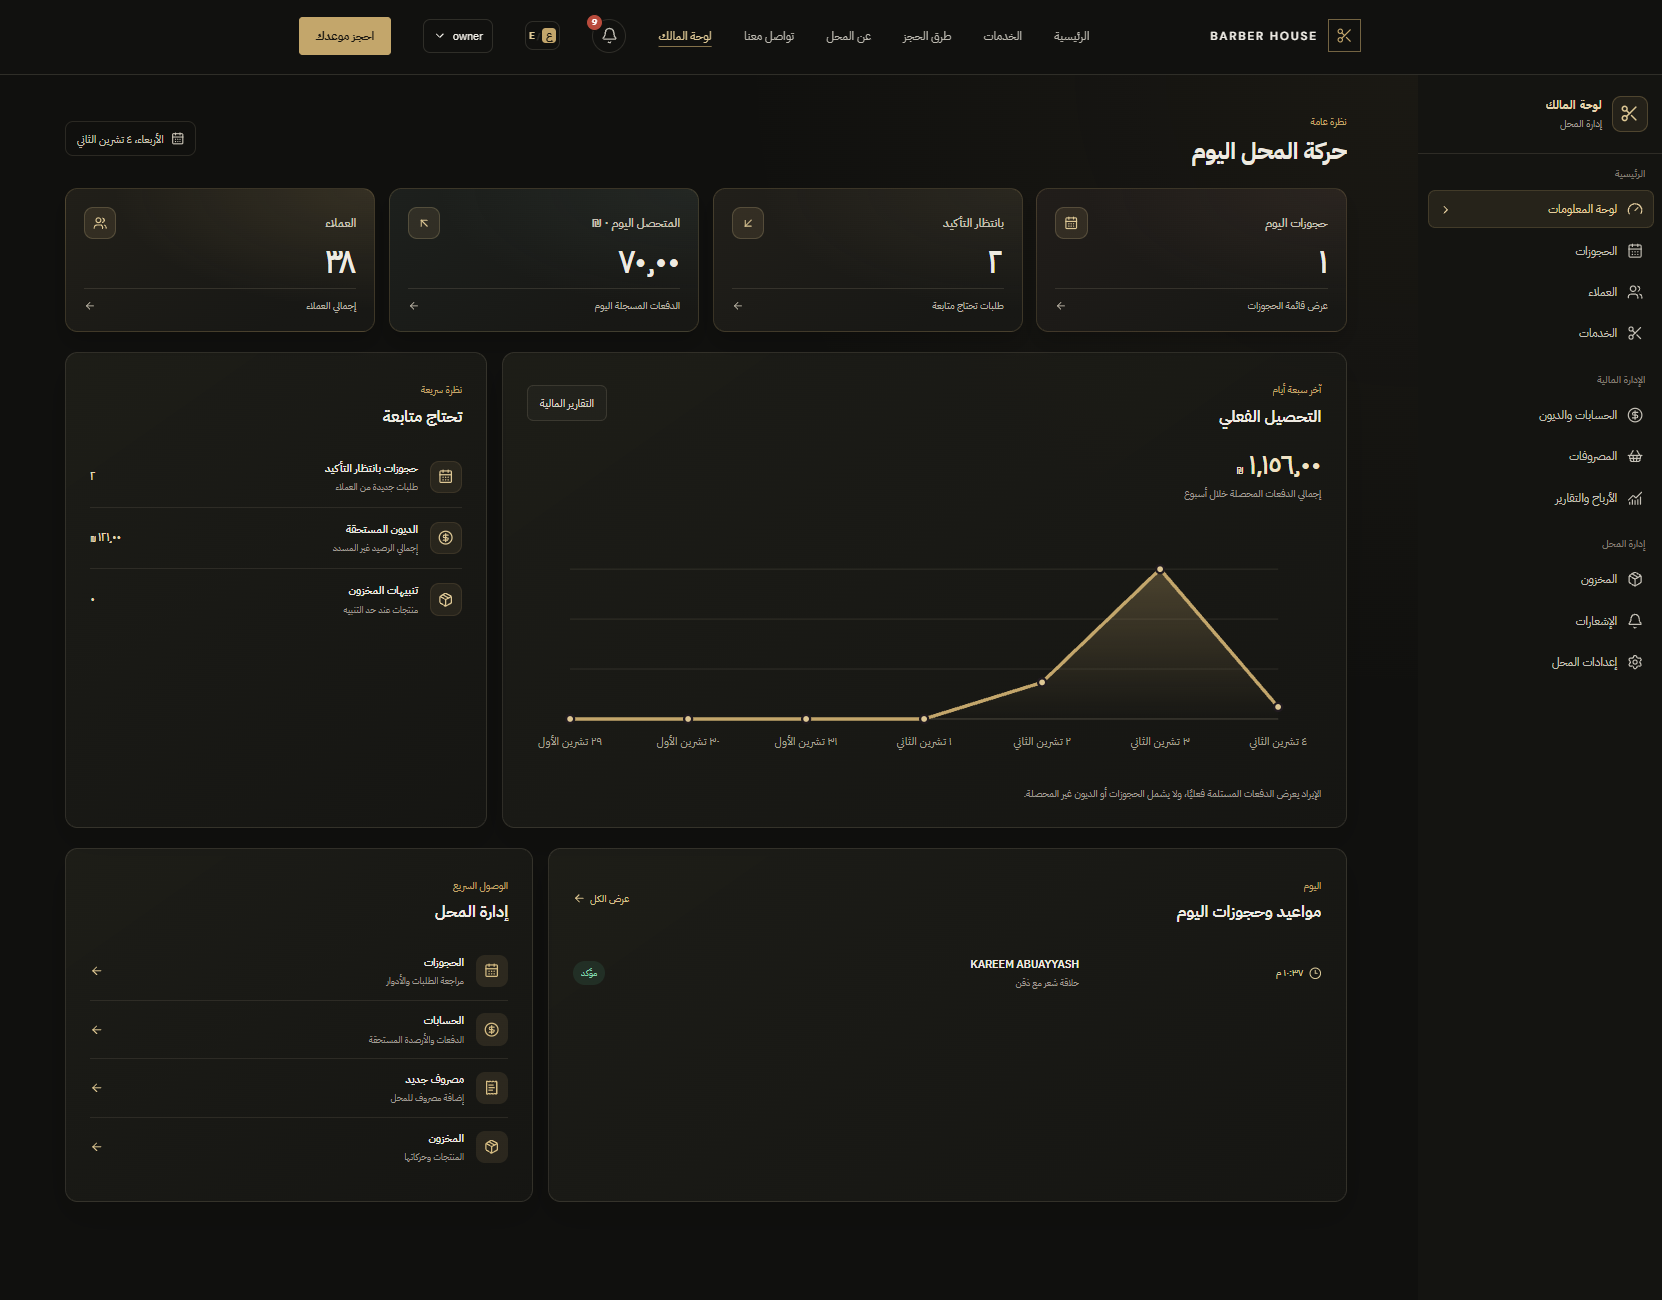
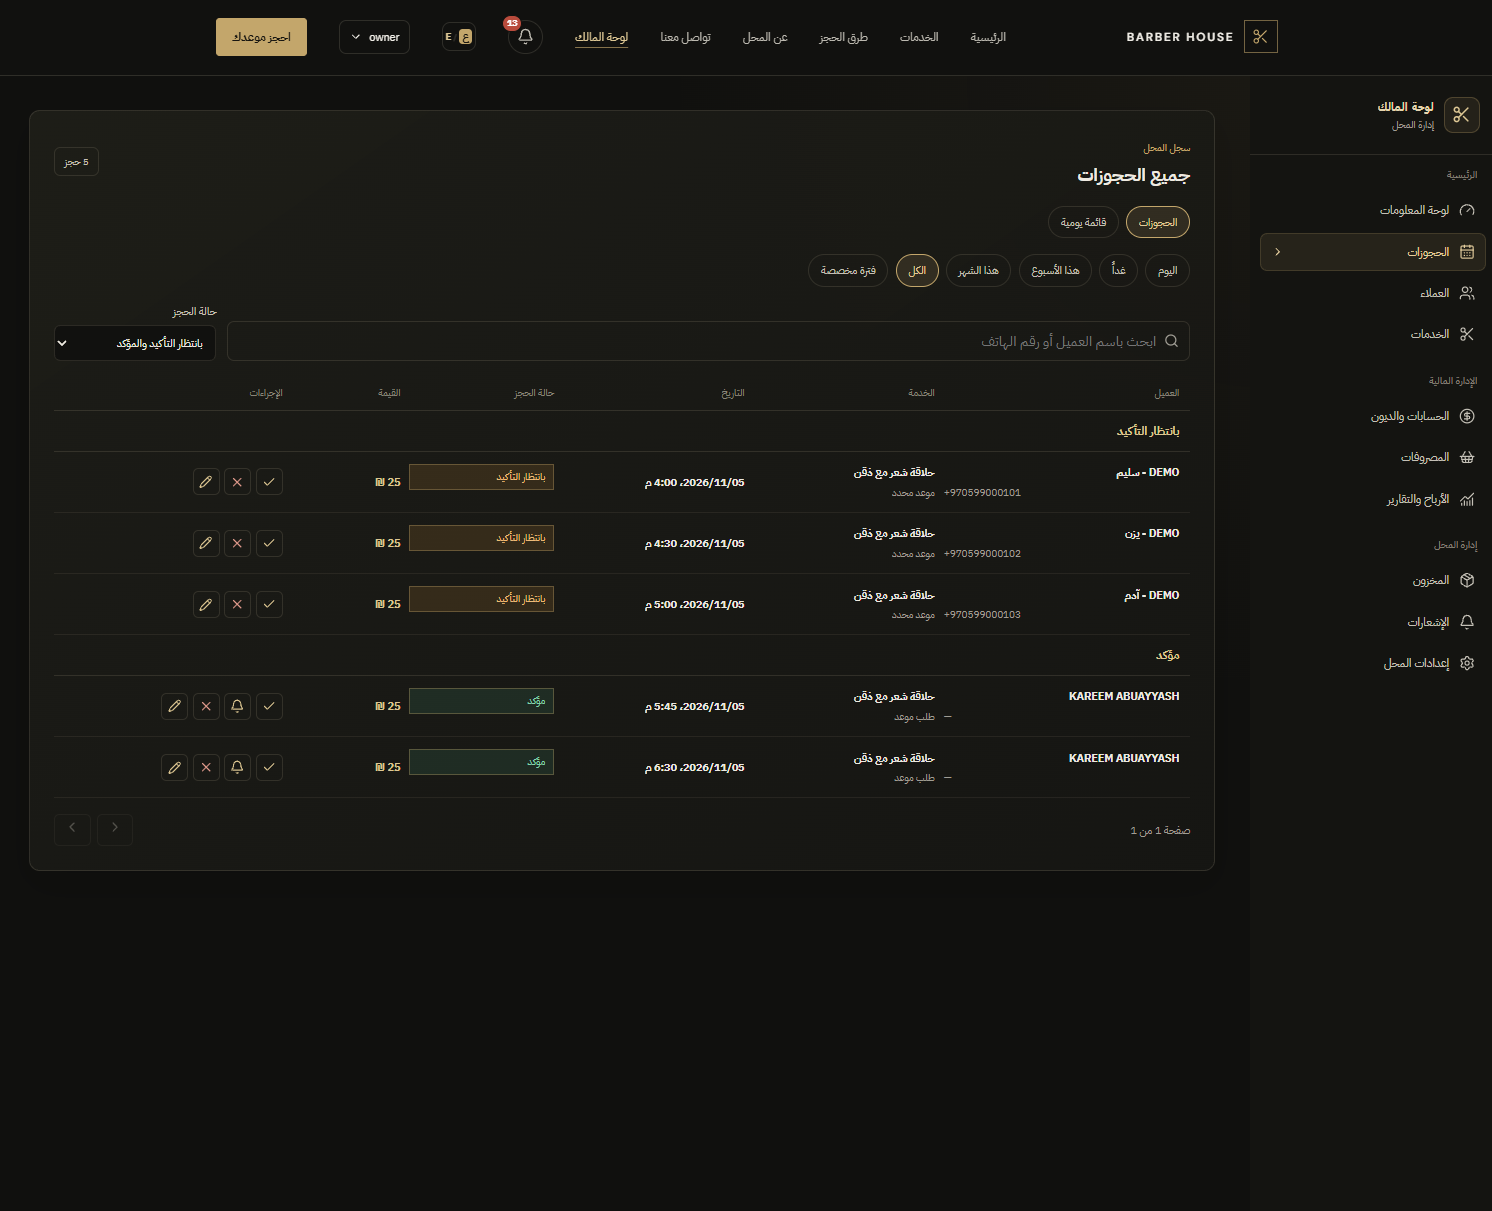
Add barber shop gallery screenshots

diff --git a/script.js b/script.js
@@ -12,7 +12,21 @@ const observer=new IntersectionObserver(entries=>entries.forEach(entry=>{if(entr
 document.querySelectorAll('.reveal').forEach(el=>observer.observe(el));
 const barberShots=[
  {src:'assets/barber-house-full.png',alt:'Full BARBER HOUSE homepage screenshot'},
- {src:'assets/barber-house-dashboard-bookings.png',alt:'BARBER HOUSE owner dashboard with bookings, sales and the management sidebar'}
+ {src:'assets/barber-house-dashboard-bookings.png',alt:'BARBER HOUSE owner dashboard and booking management'},
+ {src:'assets/barber-house-customers.png',alt:'BARBER HOUSE customer directory'},
+ {src:'assets/barber-house-services.png',alt:'BARBER HOUSE service management'},
+ {src:'assets/barber-house-accounts.png',alt:'BARBER HOUSE accounts and customer balances'},
+ {src:'assets/barber-house-reports.png',alt:'BARBER HOUSE sales and performance reports'},
+ {src:'assets/barber-house-inventory.png',alt:'BARBER HOUSE inventory management'},
+ {src:'assets/barber-house-notifications.png',alt:'BARBER HOUSE notifications'},
+ {src:'assets/barber-house-settings.png',alt:'BARBER HOUSE shop settings'},
+ {src:'assets/barber-house-mobile-home.png',alt:'BARBER HOUSE mobile homepage'},
+ {src:'assets/barber-house-mobile-booking-methods.png',alt:'BARBER HOUSE mobile booking methods'},
+ {src:'assets/barber-house-mobile-booking-form.jpg',alt:'BARBER HOUSE mobile booking form'},
+ {src:'assets/barber-house-mobile-service-options.jpg',alt:'BARBER HOUSE mobile service options'},
+ {src:'assets/barber-house-mobile-order-success.jpg',alt:'BARBER HOUSE mobile booking confirmation'},
+ {src:'assets/barber-house-mobile-bookings.jpg',alt:'BARBER HOUSE mobile customer bookings'},
+ {src:'assets/barber-house-mobile-notifications.jpg',alt:'BARBER HOUSE mobile notifications'}
 ];
 const fluentoShots=[
  {src:'assets/fluento-admin-dashboard.png',alt:'Fluento admin dashboard'},
@@ -30,8 +44,9 @@ const fluentoShots=[
 function initGallery({root,shots,lightbox,coverSelector,openSelector,closeSelector,prevSelector,nextSelector,dotSelector,lightboxImageSelector}){
  let index=0;
  const cover=root.querySelector(coverSelector), zoom=lightbox.querySelector(lightboxImageSelector);
- const dots=[...root.querySelectorAll(dotSelector),...lightbox.querySelectorAll(dotSelector)];
- const setIndex=n=>{index=(n+shots.length)%shots.length;const shot=shots[index];[cover,zoom].forEach(img=>{img.src=shot.src;img.alt=shot.alt});dots.forEach((dot,i)=>dot.classList.toggle('active',i===index))};
+ const dotGroups=[root.querySelectorAll(dotSelector),lightbox.querySelectorAll(dotSelector)];
+ const setIndex=n=>{index=(n+shots.length)%shots.length;const shot=shots[index];[cover,zoom].forEach(img=>{img.src=shot.src;img.alt=shot.alt});dotGroups.forEach(dots=>dots.forEach((dot,i)=>dot.classList.toggle('active',i===index)))};
+ const dots=[...dotGroups].flatMap(group=>[...group]);
  root.querySelector(openSelector).addEventListener('click',()=>{lightbox.hidden=false;document.body.classList.add('lightbox-open');lightbox.querySelector(closeSelector).focus()});
  const close=()=>{lightbox.hidden=true;document.body.classList.remove('lightbox-open')};
  lightbox.querySelector(closeSelector).addEventListener('click',close);
@@ -42,6 +57,9 @@ function initGallery({root,shots,lightbox,coverSelector,openSelector,closeSelect
  document.addEventListener('keydown',e=>{if(!lightbox.hidden){if(e.key==='Escape')close();if(e.key==='ArrowLeft')setIndex(index+1);if(e.key==='ArrowRight')setIndex(index-1)}});
 }
 const barberRoot=document.querySelector('.barber');
+const barberDotMarkup=barberShots.map((shot,i)=>`<button class="gallery-dot${i===0?' active':''}" type="button" aria-label="Screenshot ${i+1}: ${shot.alt}"></button>`).join('');
+barberRoot.querySelector('.gallery-dots').innerHTML=barberDotMarkup;
+document.querySelector('#project-lightbox .gallery-dots').innerHTML=barberDotMarkup;
 initGallery({root:barberRoot,shots:barberShots,lightbox:document.querySelector('#project-lightbox'),coverSelector:'.project-cover',openSelector:'.project-image-button',closeSelector:'.lightbox-close',prevSelector:'.gallery-prev',nextSelector:'.gallery-next',dotSelector:'.gallery-dot',lightboxImageSelector:'.lightbox-image'});
 const fluentoRoot=document.querySelector('.fluento-gallery');
 const fluentoDotsMarkup=fluentoShots.map((shot,i)=>`<button class="gallery-dot${i===0?' active':''}" type="button" aria-label="Screenshot ${i+1}: ${shot.alt}"></button>`).join('');
